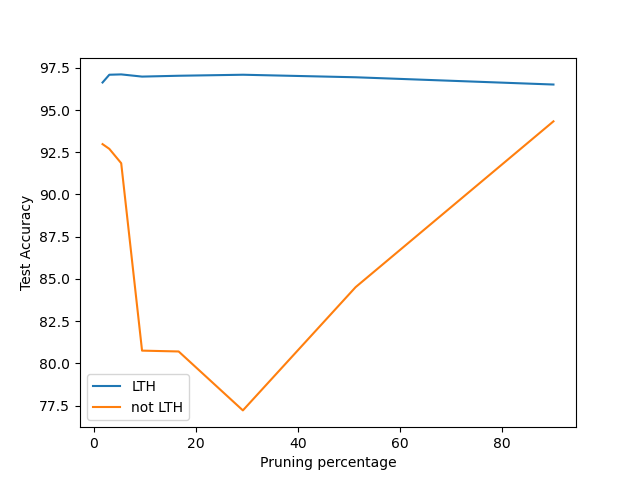
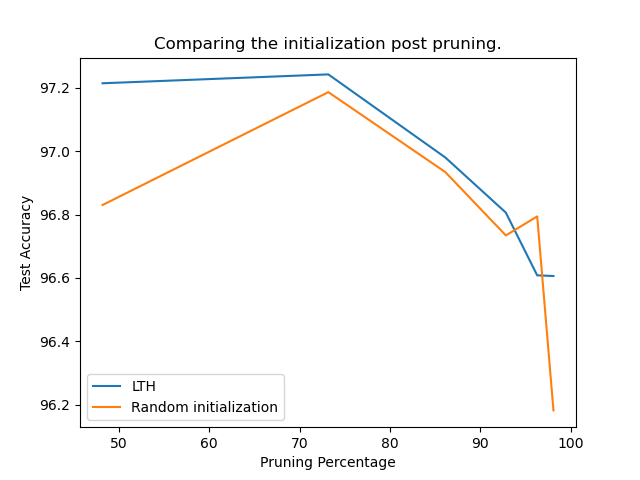
performed the comparison of initialization as average of 5 rounds.

diff --git a/Comparing_results.py b/Comparing_results.py
@@ -1,5 +1,6 @@
 import pandas as pd
 import numpy as np
+import time
 from Neural_network import *
 import matplotlib.pyplot as plt
 
@@ -12,22 +13,58 @@ there, the model is retrained and the test accuracies are as good, if not better
 We want to test this theory by randomly reinitializing the not-pruned weights, and seeing the test accuracies.
 """
 
-df_accuracies_LTH,_ = iterative_pruning(rounds=8)
-df_accuracies_LTH = pd.DataFrame(df_accuracies_LTH)
-print(df_accuracies_LTH)
+def comparing_initialization_after_pruning(amount_of_repeats, total_prune_percent=99, rounds=7):
+    beginning = time.time() #XXx remove
+    df_accuracies_LTH = pd.DataFrame()
+    df_accuracies_not_LTH = pd.DataFrame()
 
-df_accuracies_not_LTH,_ = iterative_pruning(rounds=8, LTH = False)
-df_accuracies_not_LTH = pd.DataFrame(df_accuracies_not_LTH)
-print(df_accuracies_not_LTH)
+    for i in range (amount_of_repeats):
+        print(f"Iteration for average : {i + 1}/{amount_of_repeats}")
 
-plt.plot(df_accuracies_LTH['Pruning percentage'], df_accuracies_LTH['Test Accuracy (with training)'], label = 'LTH')
-plt.plot(df_accuracies_not_LTH['Pruning percentage'], df_accuracies_not_LTH['Test Accuracy (with training)'], label = 'not LTH')
-plt.xlabel("Pruning percentage")
-plt.ylabel("Test Accuracy")
-plt.legend()
-plt.savefig("plots/randomly_initialized.png")
+        #All the iterations for the LTH method
+        df_acc_LTH,_ = iterative_pruning(total_prune_percent=total_prune_percent, rounds=rounds)
+        for j in range (len(df_acc_LTH)):
+            df_acc_LTH[j]['Iteration'] = i + 1
+        df_accuracies_LTH = pd.concat([df_accuracies_LTH, pd.DataFrame(df_acc_LTH)])
+
+        #All the iterations for the LTH method
+        df_acc_not_LTH,_ = iterative_pruning(total_prune_percent=total_prune_percent, rounds=rounds)
+        for j in range (len(df_acc_not_LTH)):
+            df_acc_not_LTH[j]['Iteration'] = i + 1
+        df_accuracies_not_LTH = pd.concat([df_accuracies_not_LTH, pd.DataFrame(df_acc_not_LTH)])
+
+    df_avg_accuracies_LTH = []
+    df_avg_accuracies_not_LTH = []
+    for pruning_round in range (rounds):
+        for df, df_avg in [(df_accuracies_LTH, df_avg_accuracies_LTH), (df_accuracies_not_LTH, df_avg_accuracies_not_LTH)]:
+            df_round = df[df['Round']=='Round '+str(pruning_round)]
+            round_avg_of_test_acc = df_round['Test Accuracy (with training)'].mean()
+            min_test_acc = df_round['Test Accuracy (with training)'].min()
+            max_test_acc = df_round['Test Accuracy (with training)'].max()
+            pruning_perc = df_round['Pruning percentage'].mean()
+
+            round_avg_info = {'Round' : 'Round '+str(pruning_round), 
+                            'Pruning Percentage' : pruning_perc,
+                            'Avg Test Accuracy' : round_avg_of_test_acc,
+                            'Min Test Accuracy' : min_test_acc,
+                            'Max Test Accuracy' : max_test_acc}
+            df_avg.append(round_avg_info)
+    
+    df_avg_accuracies_LTH = pd.DataFrame(df_avg_accuracies_LTH)
+    df_avg_accuracies_not_LTH = pd.DataFrame(df_avg_accuracies_not_LTH)
+
+    plt.plot(df_avg_accuracies_LTH['Pruning Percentage'], df_avg_accuracies_LTH['Avg Test Accuracy'], label = 'LTH')
+    plt.plot(df_avg_accuracies_not_LTH['Pruning Percentage'], df_avg_accuracies_not_LTH['Avg Test Accuracy'], label = 'Random initialization')
+    plt.xlabel("Pruning Percentage")
+    plt.ylabel("Test Accuracy")
+    plt.title("Comparing the initialization post pruning.")
+    plt.legend()
+    plt.savefig("plots/randomly_initialized.png")
+
+    print((time.time()- beginning)/60)#XXx remove
 
 
+comparing_initialization_after_pruning(amount_of_repeats = 5, rounds = 7)
 
 
 

diff --git a/Neural_network.py b/Neural_network.py
@@ -133,20 +133,23 @@ def prune_by_magnitude(model, prune_percent=20):
 # Step 4: creating the winning ticket f(x; m⊙theta_0)
 def iterative_pruning(total_prune_percent=90, rounds=8, epochs_per_round=10, lr=0.001, LTH = True):
     df_accuracies = []
-    df_accuracies, model, theta_j, theta0, train_loader, test_loader = dense_neural_network_MNIST(df_accuracies)
+    df_accuracies, model, _, theta0, train_loader, test_loader = dense_neural_network_MNIST(df_accuracies)
     print("\nStep 4: Creating the Winning ticket")
     print(f"Number of zeros before pruning: {count_zeros(model)}")
 
     criterion = nn.CrossEntropyLoss()
-    prune_percent = total_prune_percent**(1/rounds)
+    prune_percent = 1 - (1 - total_prune_percent/100)**(1/rounds)
+    remaining_weights_percent = 1
+    current_prune_percent = 0
     print(f"At each round, we are pruning : {round(prune_percent,2)}% of the weights.")
 
     for pruning_round in range(rounds):
         print(f"\n--- Round {pruning_round + 1}/{rounds} ---")
-        current_prune_percent = prune_percent**(pruning_round + 1)
-        print(f"Current pruning percentage (Method 1): {current_prune_percent:.2f}%")
+        current_prune_percent += remaining_weights_percent * prune_percent
+        remaining_weights_percent = 1 - current_prune_percent
+        print(f"Current pruning percentage (Method 1): {current_prune_percent*100:.2f}%")
         # Pruning
-        mask = prune_by_magnitude(model, current_prune_percent)
+        mask = prune_by_magnitude(model, current_prune_percent*100)
         if LTH : #Then we keep the initial weights
             # Reset to initial weights
             model = create_winning_ticket(model, mask, theta0)
